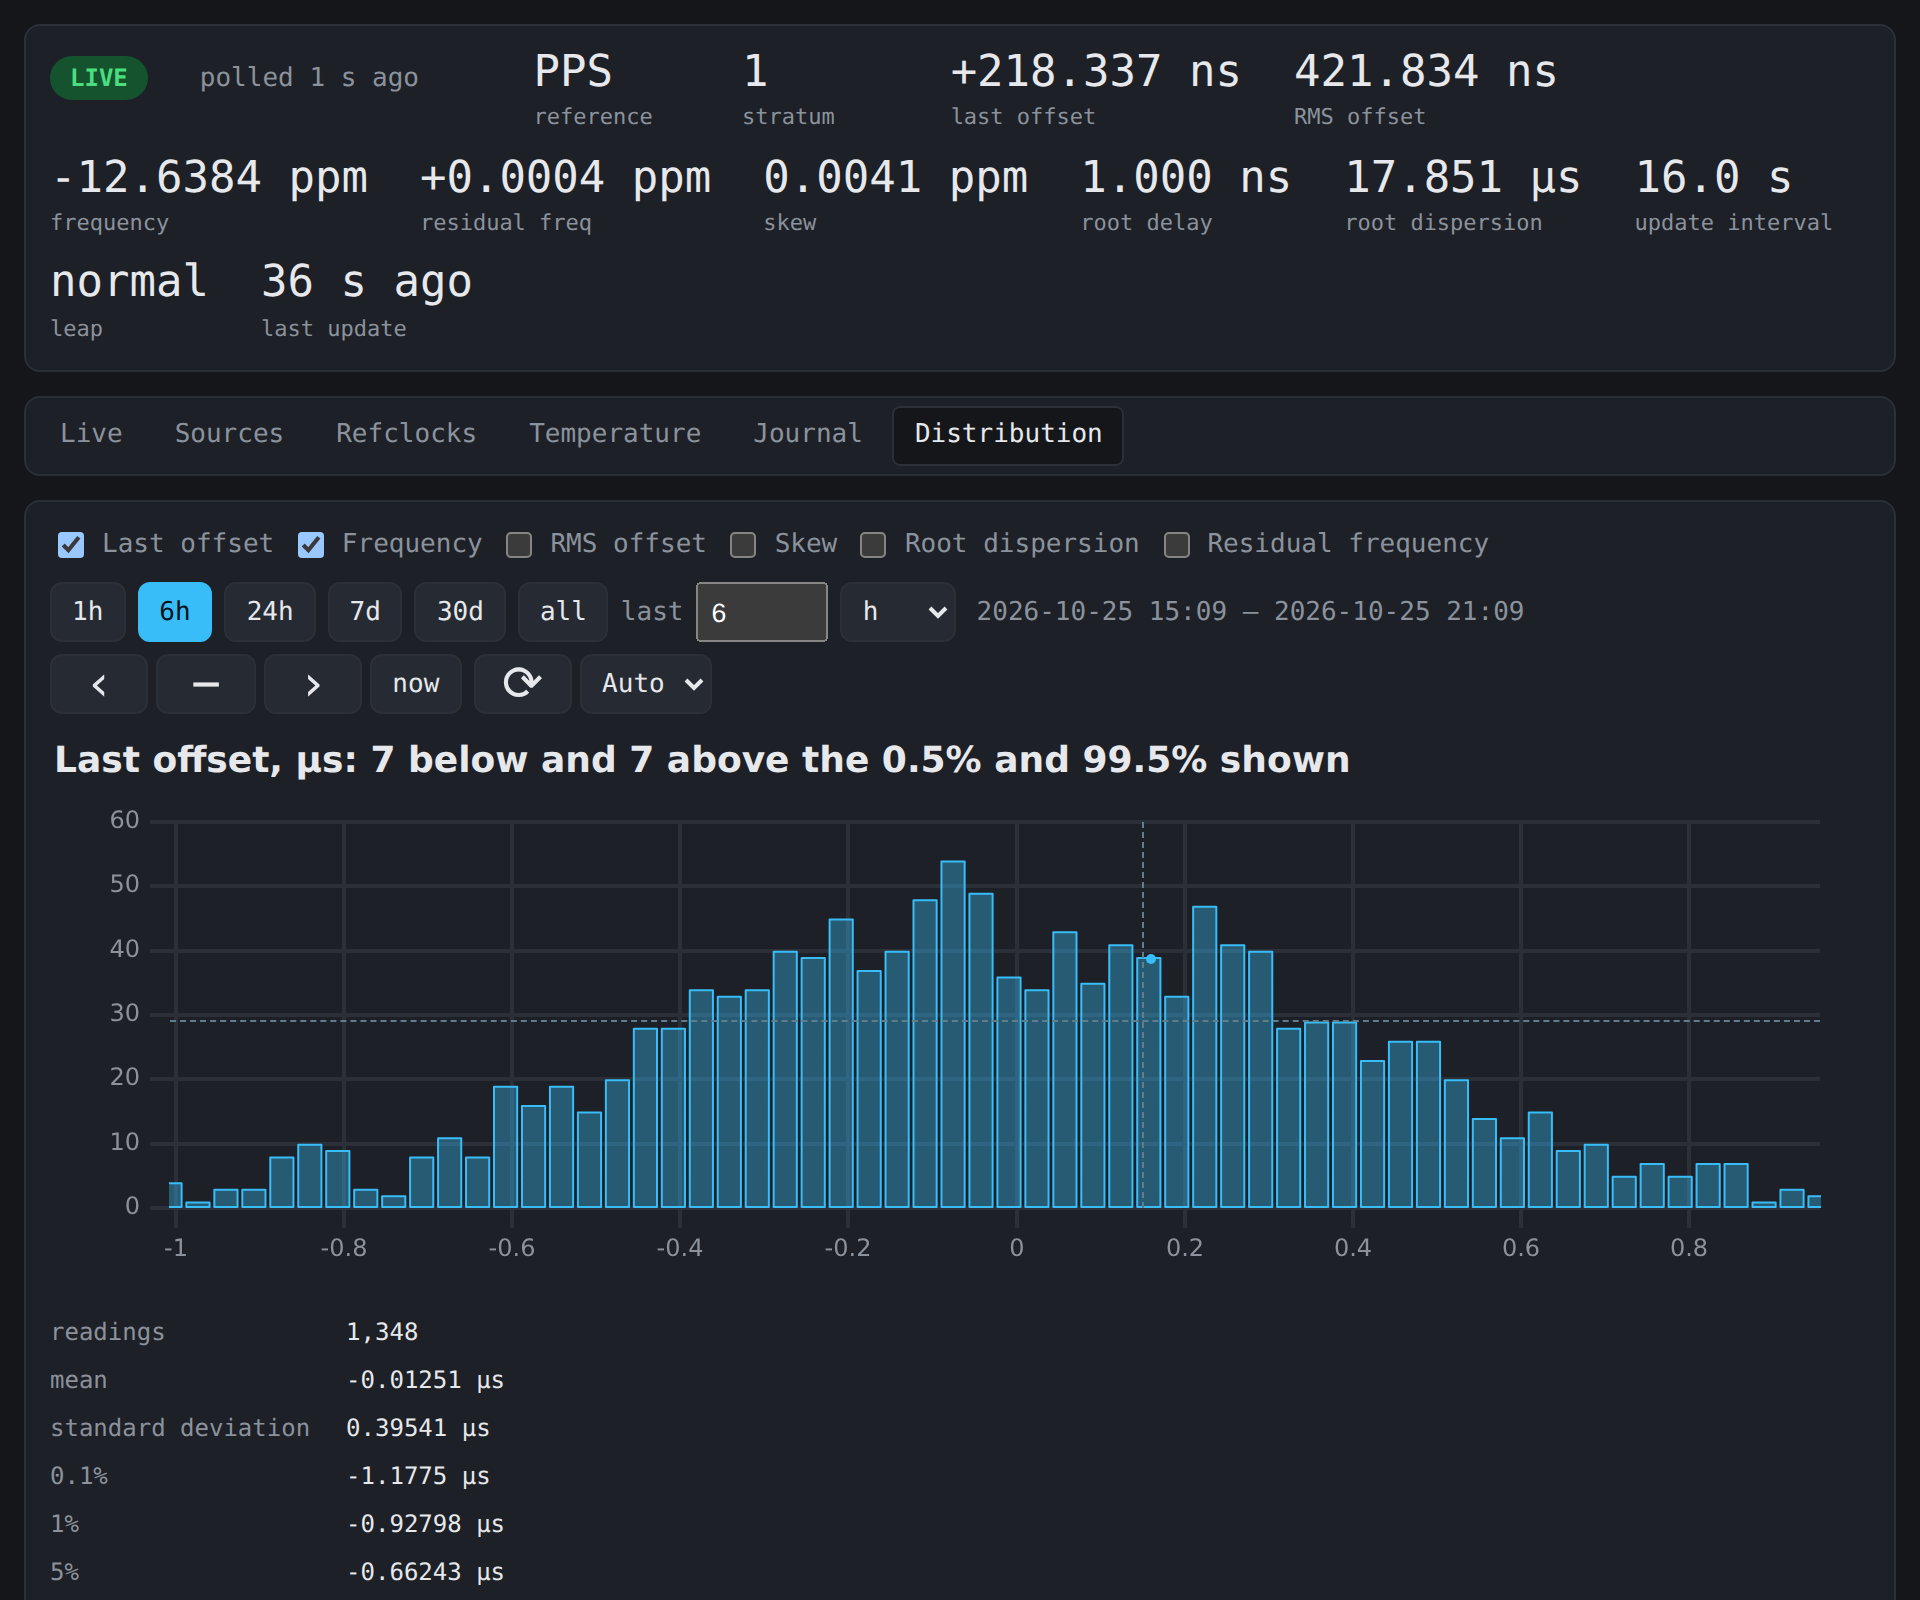
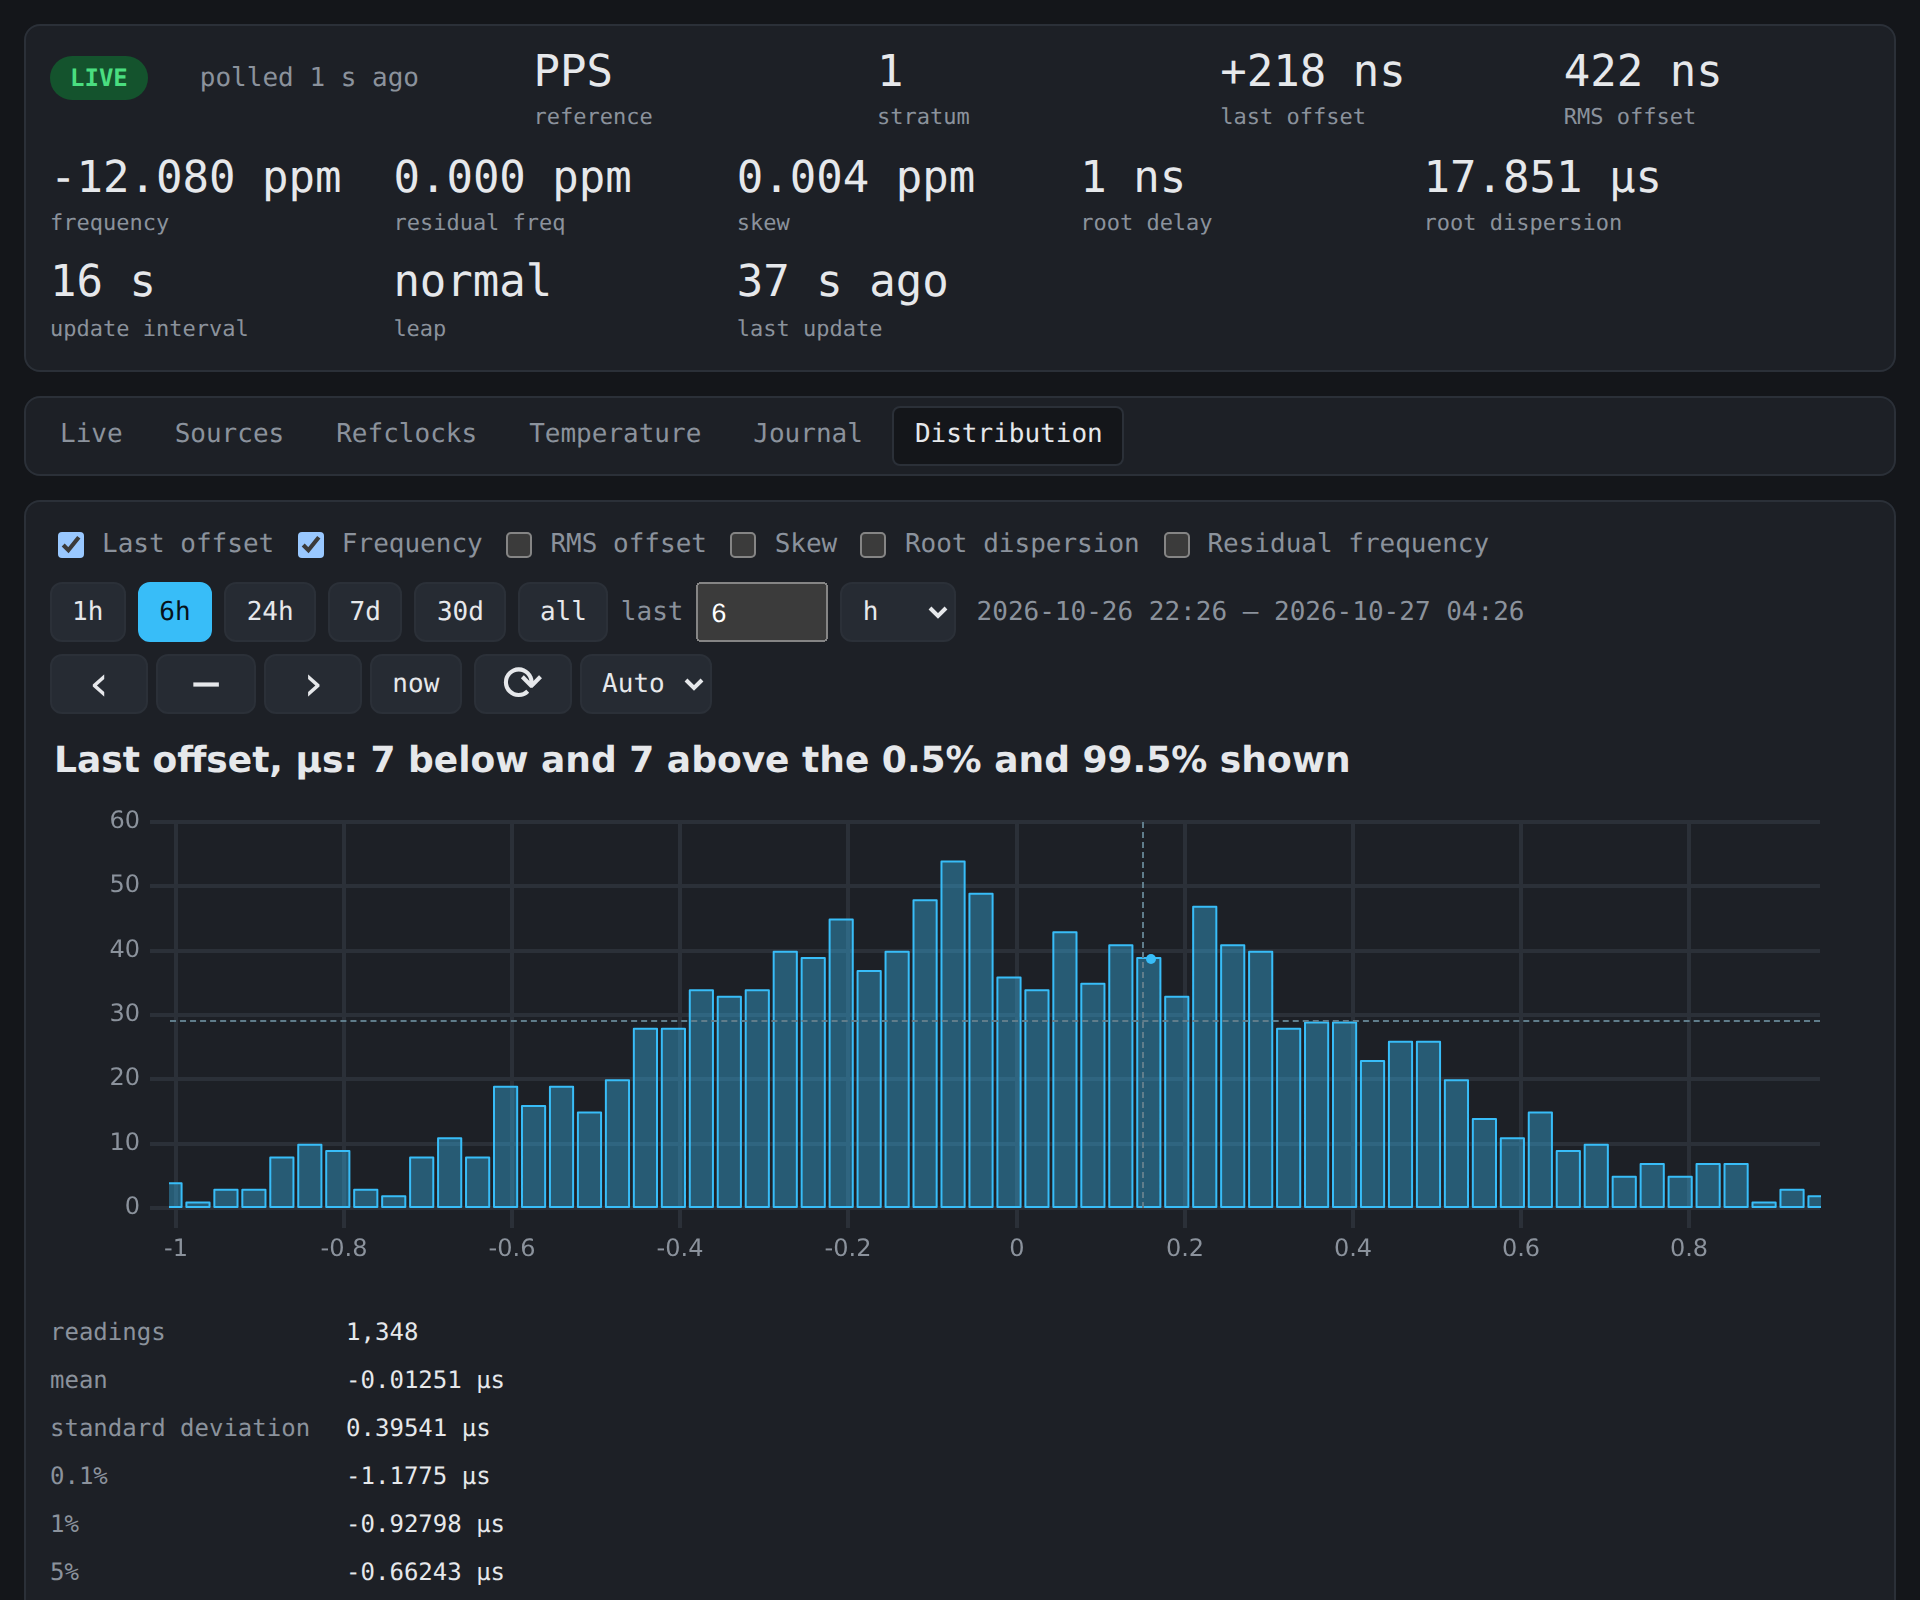
Keep the status lines steady, figures to 0 or 3 decimals
A reading whose width changed each second moved what came after it.

- The kiosk's figures are all tabular, and its update line ends with
  the count: "updated every 16 s, last 38 s ago".
- The strip's tiles hold their width in the value's own ch; the old
  min-width was in the label's, and held nothing.
- Figures go to 0 or 3 decimals: whole nanoseconds, ppm to the
  thousandth, the update interval in whole seconds, the selection
  score to the thousandth.  An age keeps its tenths of an hour or day.
- What rounds to zero carries no sign.

Changed region(s): [[0.0312, 0.0312, 0.9375, 0.2188], [0.75, 0.375, 0.7812, 0.4062], [0.5938, 0.375, 0.625, 0.4062]]

diff --git a/crates/chronymon-web/src/common.js b/crates/chronymon-web/src/common.js
@@ -156,24 +156,41 @@ function carry() {
 // ---------------------------------------------------------- formatting
 
 // SI prefixes for a time in seconds, largest first.
-const SECOND_UNITS = [[1, "s"], [1e-3, "ms"], [1e-6, "µs"], [1e-9, "ns"]];
+// Each unit a time is shown in: its size in seconds, its name, and its
+// decimals.  Whole nanoseconds, the finest any of chronyd's figures
+// means anything to.
+const SECOND_UNITS = [[1, "s", 3], [1e-3, "ms", 3], [1e-6, "µs", 3], [1e-9, "ns", 0]];
 
-// A time in seconds in the unit that suits it, to three decimals:
-// chronyd's offsets run from nanoseconds to seconds, and one fixed unit
-// reads as 0.000 at one end or 1234567 at the other.  `signed` puts a
-// plus on a positive offset, so a sign is never mistaken for absent.
+// A time in seconds in the unit that suits it: chronyd's offsets run
+// from nanoseconds to seconds, and one fixed unit reads as 0.000 at one
+// end or 1234567 at the other.  `signed` puts a plus on a positive
+// offset, so a sign is never mistaken for absent.
 function seconds(v, signed = false) {
   if (v === null || v === undefined || !Number.isFinite(v)) return "--";
   const magnitude = Math.abs(v);
-  const [size, name] = SECOND_UNITS.find(([s]) => magnitude >= s) ?? SECOND_UNITS.at(-1);
-  return `${signed && v > 0 ? "+" : ""}${(v / size).toFixed(3)} ${name}`;
+  const [size, name, decimals] = SECOND_UNITS.find(([s]) => magnitude >= s) ?? SECOND_UNITS.at(-1);
+  return `${fixed(v / size, decimals, signed)} ${name}`;
 }
 
-// A frequency in ppm, to the thousandth chronyc shows and one further.
-const ppm = (v, signed = false) =>
-  v === null || v === undefined ? "--" : `${signed && v > 0 ? "+" : ""}${v.toFixed(4)} ppm`;
+// `v` to `decimals` places, a plus on it if `signed` and positive.
+// Rounded first, so that what rounds to zero has no sign.
+function fixed(v, decimals, signed) {
+  const rounded = Number(v.toFixed(decimals)) || 0;
+  return `${signed && rounded > 0 ? "+" : ""}${rounded.toFixed(decimals)}`;
+}
 
-// An age in seconds, as a person says it.
+// A frequency in ppm, to the thousandth chronyc shows: a part per
+// billion.
+const ppm = (v, signed = false) =>
+  v === null || v === undefined ? "--" : `${fixed(v, 3, signed)} ppm`;
+
+// An interval in seconds: whole seconds, and below one second, as
+// `seconds` puts it.
+const interval = (v) =>
+  v === null || v === undefined ? "--" : v < 1 ? seconds(v) : `${v.toFixed(0)} s`;
+
+// An age in seconds, as a person says it: not an engineering figure,
+// so hours and days to a tenth.
 function age(secs) {
   if (secs === null || secs === undefined || !Number.isFinite(secs)) return "--";
   if (secs < 120) return `${secs.toFixed(0)} s`;
@@ -275,7 +292,7 @@ function readings(s) {
     { k: "skew", v: ppm(v.skew), hint: "The error bound on the frequency." },
     { k: "root delay", v: seconds(v.root_delay) },
     { k: "root dispersion", v: seconds(v.root_dispersion) },
-    { k: "update interval", v: `${fmt(v.last_update_interval, 1)} s` },
+    { k: "update interval", v: interval(v.last_update_interval) },
     { k: "leap", v: LEAP_NAMES[t.leap] ?? t.leap },
     { k: "last update", v: t.reference_time === null ? "none" : `${age(s.now - t.reference_time)} ago` },
   ];

diff --git a/crates/chronymon-web/src/style.css b/crates/chronymon-web/src/style.css
@@ -25,13 +25,14 @@ h2 { margin: 0 0 10px; font-size: 12px; font-weight: 600; color: var(--dim);
 
 /* Status strip: the few things worth seeing before anything else. */
 #status, #state { display: flex; flex-wrap: wrap; gap: 10px 26px; align-items: baseline; }
-/* A fixed column, so a reading that gets wider -- "-5.8 ns" to
-   "+122.6 ns" -- does not shove every tile after it sideways. */
-.stat { display: flex; flex-direction: column; gap: 2px; min-width: 10ch; }
-.stat .v { font-size: 22px; font-variant-numeric: tabular-nums; line-height: 1.1; }
+/* A fixed column, so a reading that gets wider -- "-5 ns" to
+   "+122.600 µs" -- does not shove every tile after it sideways.  In
+   the value's own ch, which the column is as wide as. */
+.stat { display: flex; flex-direction: column; gap: 2px; }
+.stat .v { font-size: 22px; font-variant-numeric: tabular-nums; line-height: 1.1; min-width: 11ch; }
 .stat .k { font-size: 11px; color: var(--dim); }
 .pill { padding: 2px 10px; border-radius: 999px; font-size: 12px; font-weight: 600; }
-#age { min-width: 18ch; }
+#age { min-width: 18ch; font-variant-numeric: tabular-nums; }
 .live { background: #14532d; color: var(--ok); }
 .stale { background: #422006; color: var(--warn); }
 .down { background: #450a0a; color: var(--bad); }
@@ -157,8 +158,9 @@ table.numbers td { padding: 3px 18px 3px 0; font-variant-numeric: tabular-nums; 
    1440x1080 and scaled down below by `--u`, which the page sets.  The
    clock's state and the host's time in large type and the sources on
    the left, its history and events on the right, filling the window
-   and never scrolling; nothing to click, so no pointer either. */
-body.kiosk { --u: 1px; font-size: calc(13 * var(--u));
+   and never scrolling; nothing to click, so no pointer either.  Its
+   figures all tabular, so a count ticking does not shift its line. */
+body.kiosk { --u: 1px; font-size: calc(13 * var(--u)); font-variant-numeric: tabular-nums;
              height: 100vh; overflow: hidden; cursor: none;
              padding: calc(12 * var(--u) + var(--inset-y, 0px)) calc(12 * var(--u) + var(--inset-x, 0px));
              gap: calc(12 * var(--u));

diff --git a/crates/chronymon-web/src/kiosk.html b/crates/chronymon-web/src/kiosk.html
@@ -128,7 +128,7 @@ function showLoads() {
   if (!DEBUG) return;
   update($("kiosk-foot"), "textContent",
     `load ${loadCount} (${loadedHow}), up ${age((Date.now() - loadedAt) / 1000)}, Chrome ${chromeVersion}, ` +
-    `${innerWidth}x${innerHeight} at ${devicePixelRatio}x, scale ${unitPx.toFixed(2)}` +
+    `${innerWidth}x${innerHeight} at ${devicePixelRatio}x, scale ${unitPx.toFixed(3)}` +
     (lastError ? `, error: ${lastError}` : ""));
 }
 function caught(message) {
@@ -350,8 +350,9 @@ function renderKiosk(s, cached = false, cachedAge = 0) {
   const r = Object.fromEntries(readings(s).map((x) => [x.k, x]));
   update($("kiosk-reference"), "textContent", r.reference?.v ?? "--");
   update($("kiosk-stratum"), "textContent", r.stratum ? `stratum ${r.stratum.v}` : "");
+  // The count last, so that its width changing moves nothing after it.
   update($("kiosk-update"), "textContent", r["last update"]
-    ? `updated ${r["last update"].v}, every ${r["update interval"].v}`
+    ? `updated every ${r["update interval"].v}, last ${r["last update"].v}`
     : s.status?.detail ?? "");
   showTiles(KIOSK_TILES.filter((k) => r[k]).map((k) =>
     tile(k, r[k].v, k === "leap" ? LEAP_TONES[s.tracking.leap] ?? "" : "")));

diff --git a/crates/chronymon-web/src/sources.html b/crates/chronymon-web/src/sources.html
@@ -100,7 +100,7 @@ function sourcesTable(sources, now) {
       `<td>${report.reachability == null ? "--" : report.reachability.toString(8)}</td>` +
       `<td>${esc(seconds(report.latest_measurement, true))} ` +
       `<span class="muted">± ${esc(seconds(report.latest_measurement_error))}</span></td>` +
-      `<td>${esc(s.selection_state ?? "--")} ${s.selection ? fmt(s.selection.score, 2) : ""}</td>` +
+      `<td>${esc(s.selection_state ?? "--")} ${s.selection ? fmt(s.selection.score) : ""}</td>` +
       `<td>${stats.samples ?? "--"}</td>` +
       `<td>${esc(ppm(stats.residual_frequency, true))}</td>` +
       `<td>${esc(ppm(stats.skew))}</td>` +

diff --git a/crates/chronymon-web/src/source.html b/crates/chronymon-web/src/source.html
@@ -104,7 +104,7 @@ function describe(s, now) {
   update($("heading"), "textContent", `${s.mode} ${name}${s.removed ? ", removed" : ""}`);
   const tiles = [
     { k: "state", v: s.state ?? "--" },
-    { k: "selection", v: `${s.selection_state ?? "--"} ${s.selection ? fmt(s.selection.score, 2) : ""}` },
+    { k: "selection", v: `${s.selection_state ?? "--"} ${s.selection ? fmt(s.selection.score) : ""}` },
     { k: "stratum", v: String(report.stratum ?? "--") },
     { k: "poll", v: report.poll == null ? "--" : `${age(2 ** report.poll)}` },
     { k: "reach", v: report.reachability == null ? "--" : report.reachability.toString(8) },
